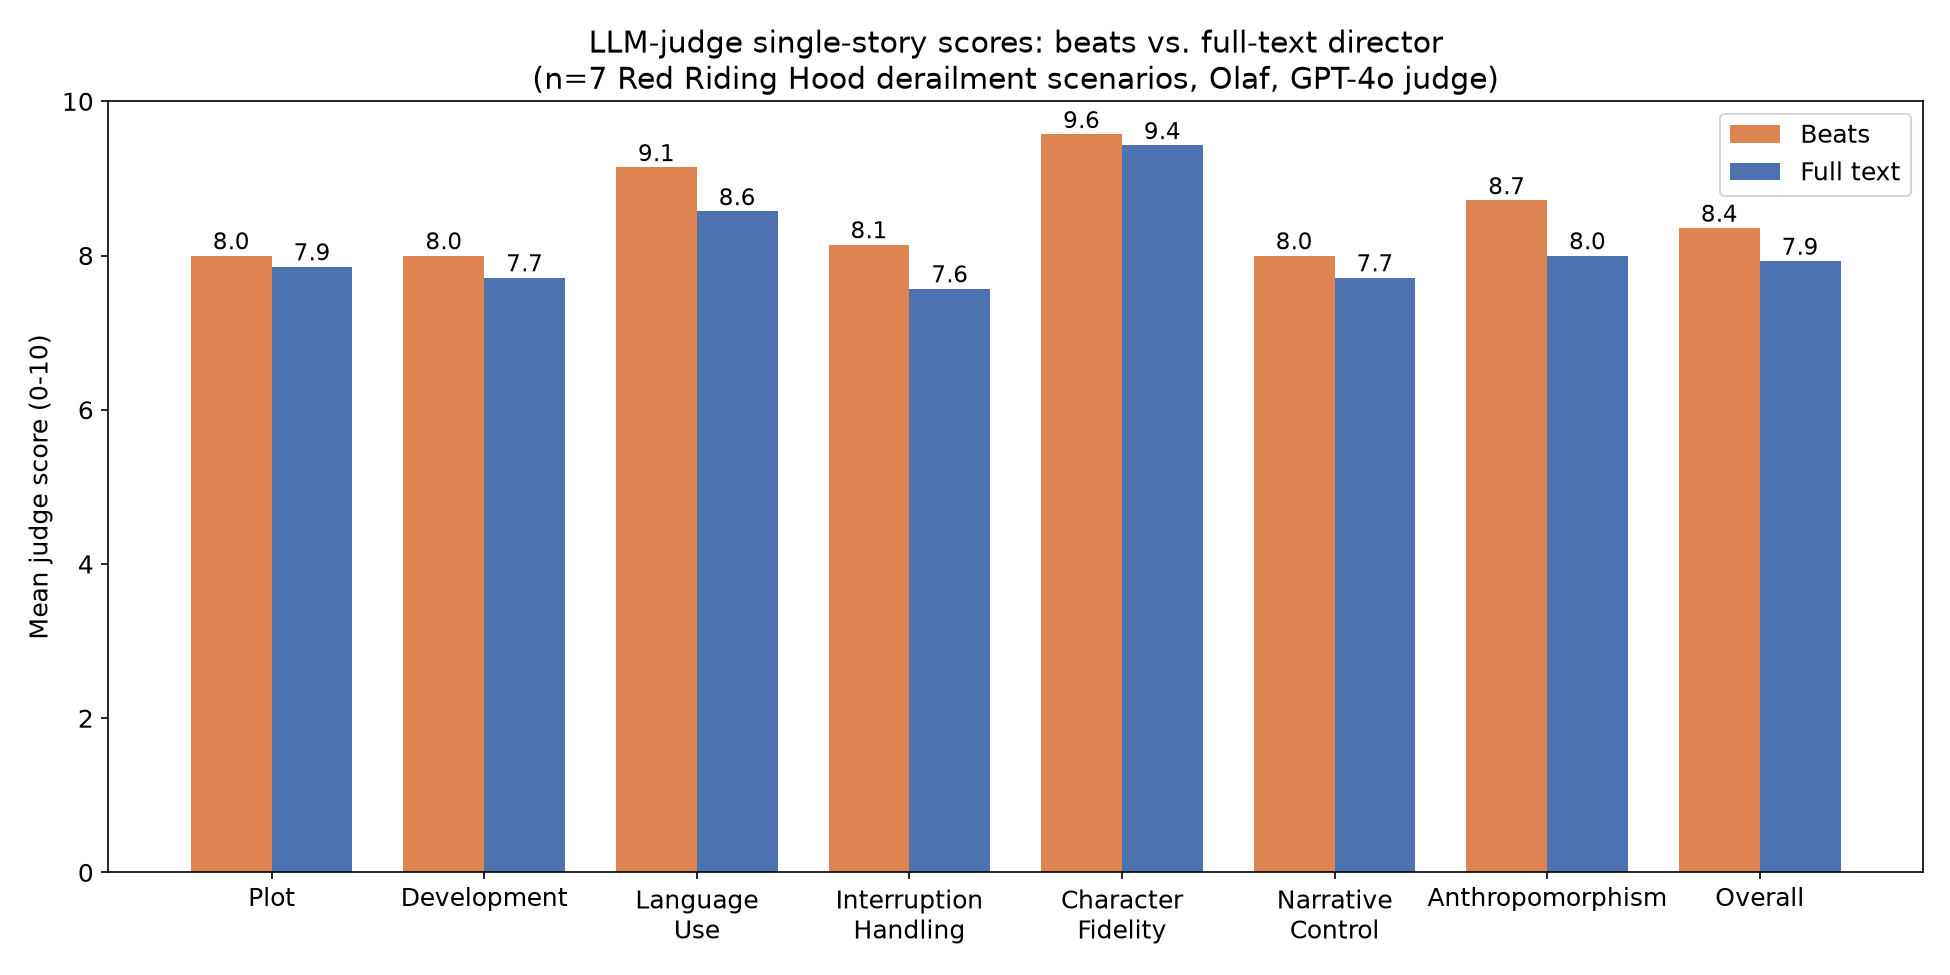
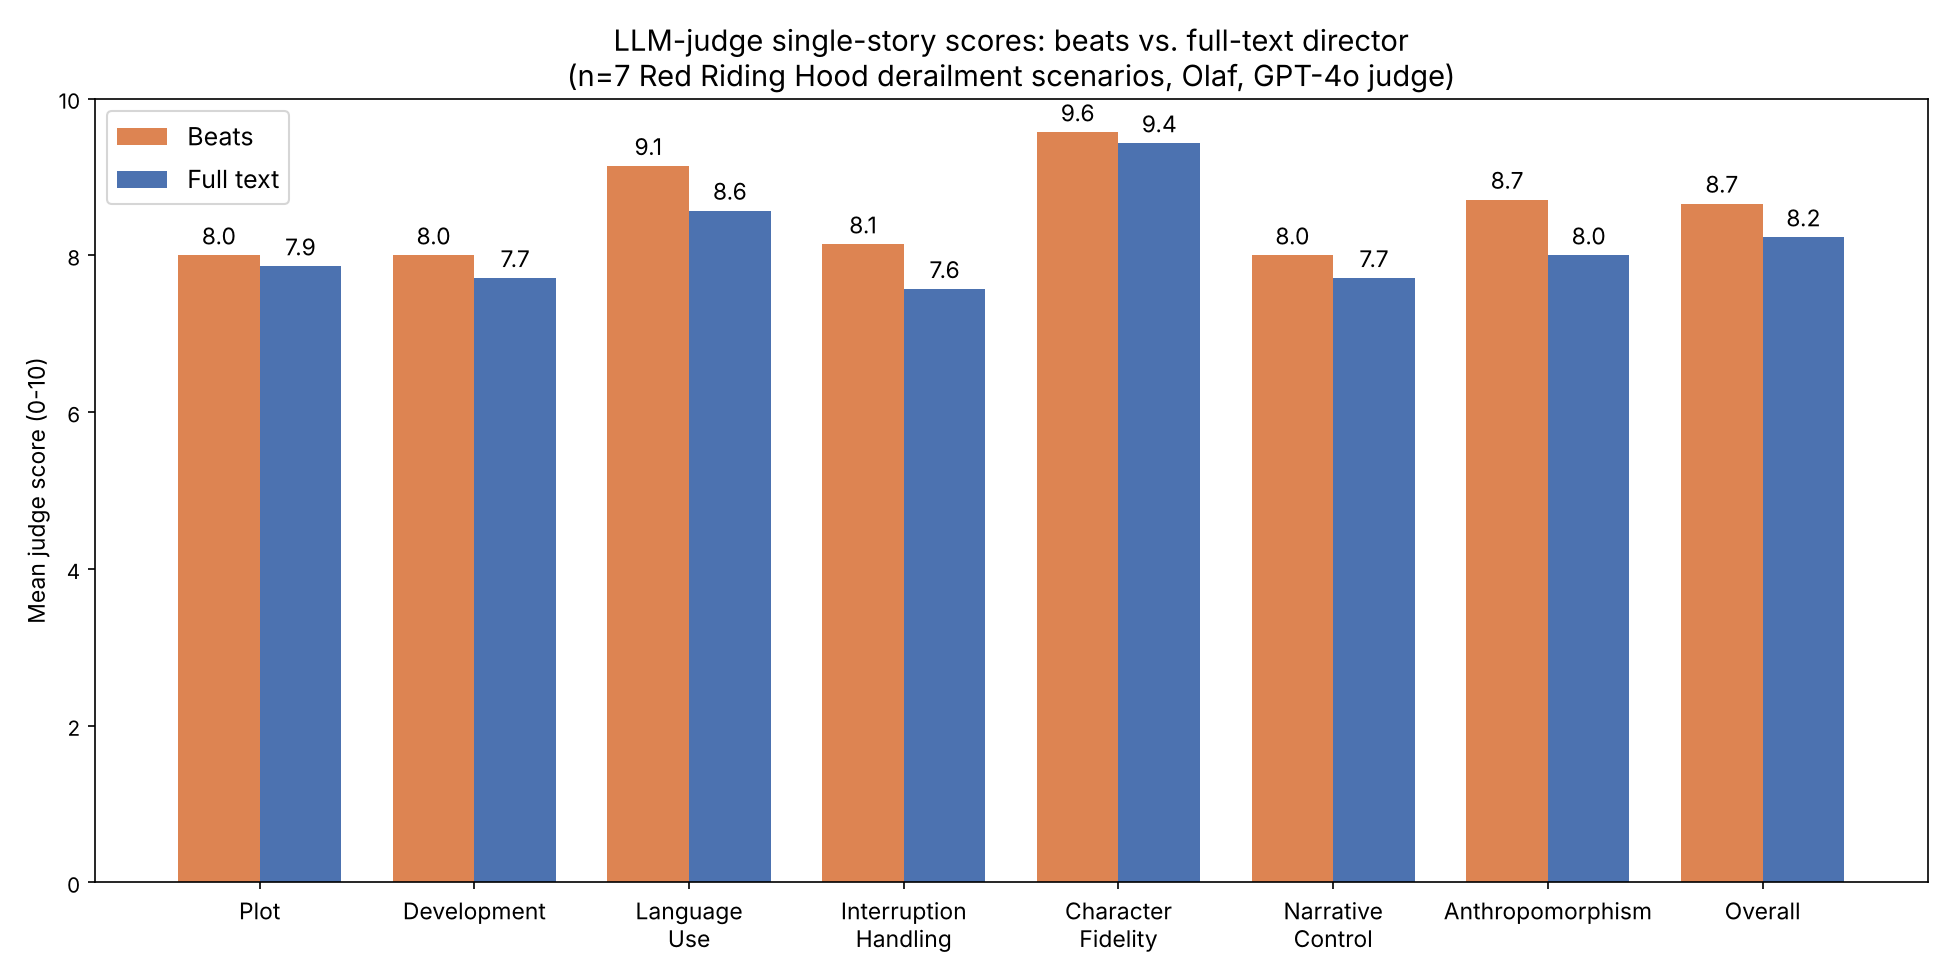
Figure 11 and its table: Overall updated to the 5-run means; captions note the dimension bars come from an earlier run
Claude-Session: https://claude.ai/code/session_01PUDDsXLUpRL3jLPF9uthdm

diff --git a/latex/tex/results.tex b/latex/tex/results.tex
@@ -531,13 +531,13 @@ This section compares the beat-based Director with the full-text variant describ
 \begin{figure}[htbp]
 \centering
 \includegraphics[width=0.95\linewidth]{plots/11_beats_vs_fulltext_scores_by_metric.png}
-\caption{Single-story judge scores, beats vs.\ full-text director}
+\caption{Single-story judge scores, beats vs.\ full-text director. The Overall bars are the mean of 5 runs; the dimension bars come from an earlier run.}
 \label{fig:llm-beats-metric}
 \end{figure}
 
 \begin{table}[htbp]
 \centering
-\caption{Beats-based director vs.\ full-text director, mean single-story score per dimension.}
+\caption{Beats-based director vs.\ full-text director, mean single-story score per dimension. The Overall row is the mean of 5 runs; the dimension rows come from an earlier run.}
 \label{tab:llm-beats-metric}
 \begin{tabular}{lcc}
 \toprule
